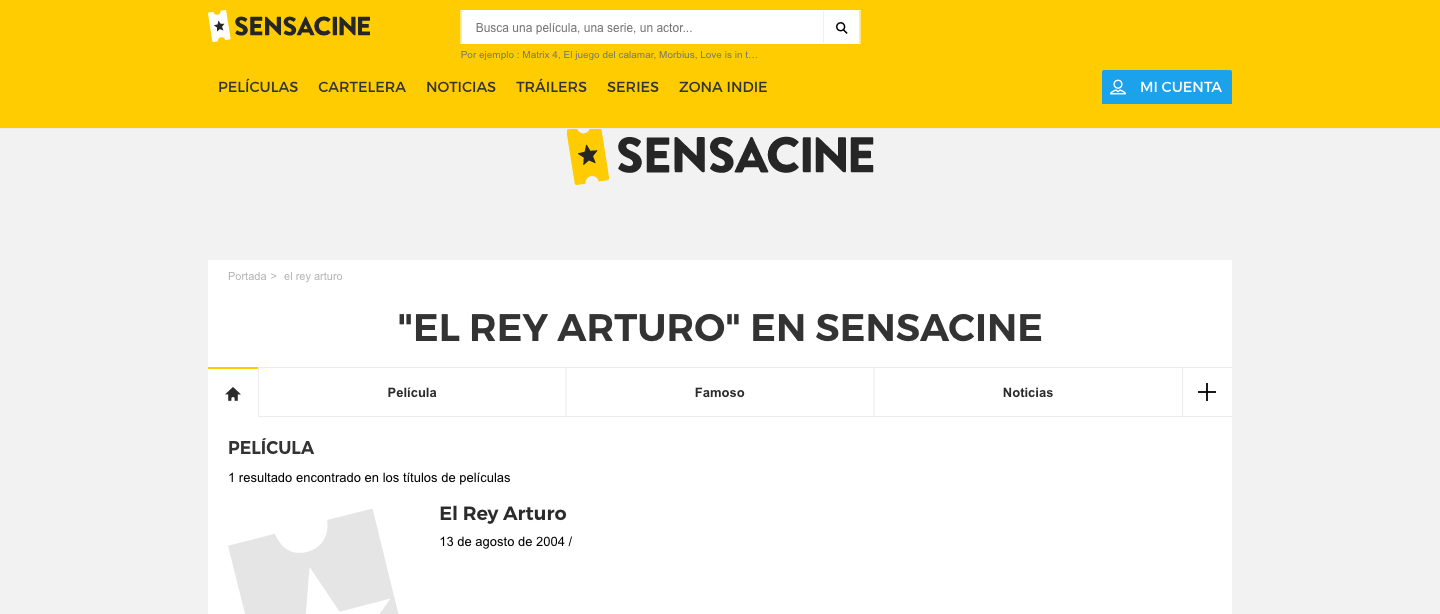
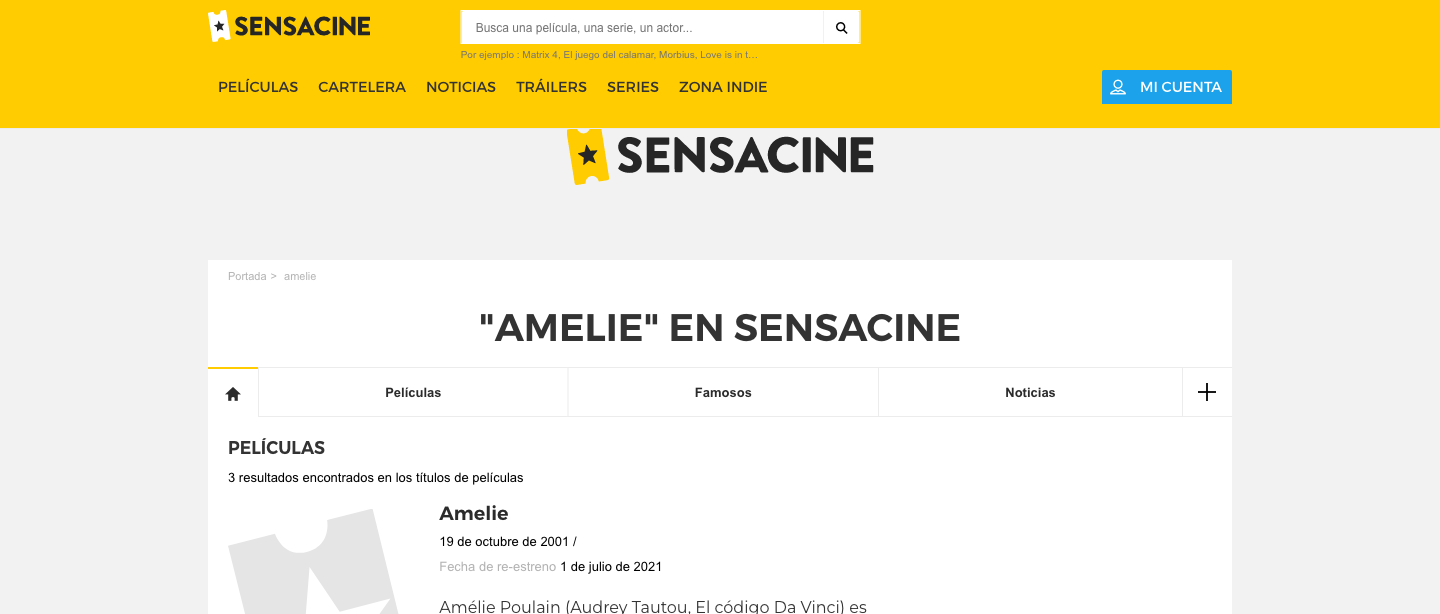
UPDATE: scrapping code

diff --git a/utils/scrap_sensacine.js b/utils/scrap_sensacine.js
@@ -21,54 +21,51 @@ const scrap_sensacine = async (title) => {
     await page.click('.header-search-submit');
     await page.waitForSelector('.mdl')
     await page.screenshot({ path: 'sensacine3.png' });
+    console.log("Hecho el 3er screenshot");
 
 
     
     //inspeccionamos página para sacar los enlaces de las reviews
-   const links = await page.evaluate(() => { 
-        const elements = document.querySelectorAll('.rating-holder a')
-        return elements.map((element) => element.href)
+  const links = await page.evaluate(() => { 
+    console.log("A ver eso QUÉ?1");
+        const elements = document.querySelectorAll('.xXx rating-title a');
+        console.log(elements);
+        
+        return elements;/* elements.map((element) => element.href) */
     })
-    console.log("Estos son los resultados y enlaces", links);
+    console.log("Estos son los resultados y enlaces", links); 
 
 
     //buscamos el enlace que contenga "criticas-espectadores"
-    const match = links.find(element => element.includes('criticas-espectadores'));
+    /* const match = links.find(element => element.includes('criticas-espectadores'));
     console.log("Resultado de match: ", match);
-    
-   
+     */
+   /* 
     //hacemos click en ese enlace
     await page.goto(match);
-    /* await page.waitForSelector('.hred') */
-    await page.screenshot({ path: 'sensacine4.png' });
+    await page.waitForSelector('.titlebar');
+    await page.screenshot({ path: 'sensacine4.png' }); */
+   
+    
      
 
+    //inspeccionamos página para sacar los comentarios de las reviews de usuarios
+   /*  const review = await page.evaluate(() => { 
 
-    const review = [];
-    
-
-
-    for(let enlace of enlaces){
-        await page.goto(enlace);
-        await page.waitForSelector('h1');
-
-        const oferta = await page.evaluate(()=>{
-            const tmp = {};
-            tmp.title = document.querySelector('h1').innerText;
-            tmp.company = document.querySelector('h2').innerText;
-            tmp.salary = document.querySelector('dd:nth-of-type(4n)').innerText;
-            tmp.url = window.location.href;
-            return tmp
-        });
-        ofertas.push(oferta);
-    }
-    console.log("Scrap Domestika conseguido!")
-
+        const obj = {}; //div con la info de la review
+        obj.div
+        const elements = document.querySelectorAll('.hred review-card cf').innerText
+        return obj
+    })
+    console.log(review);
+    await page.screenshot({ path: 'sensacine5.png' });
+ */
 
     await browser.close();
 
 };
 
-scrap_sensacine("el rey arturo");
+scrap_sensacine("amelie");
 
 
+/* module.exports = scrap_sensacine; */

diff --git a/controllers/moviesAPIController.js b/controllers/moviesAPIController.js
@@ -1,5 +1,6 @@
 const movies = require('../models/moviesAPIModel');
 const search = require('../utils/moviesAPIUtils')
+const scrap = require('../utils/scrap_sensacine')
 
 
 const dashboard = (req, res) => {
@@ -20,6 +21,7 @@ const getFilms = async (req, res) => {
 
 const inputFilms = (req, res) => {
     const films = req.body.films;
+    /* scrap(films); */ // scrapping de la pelicula que se busque.
     res.render(`http://localhost:3000/search/${films}`)
 }
 
